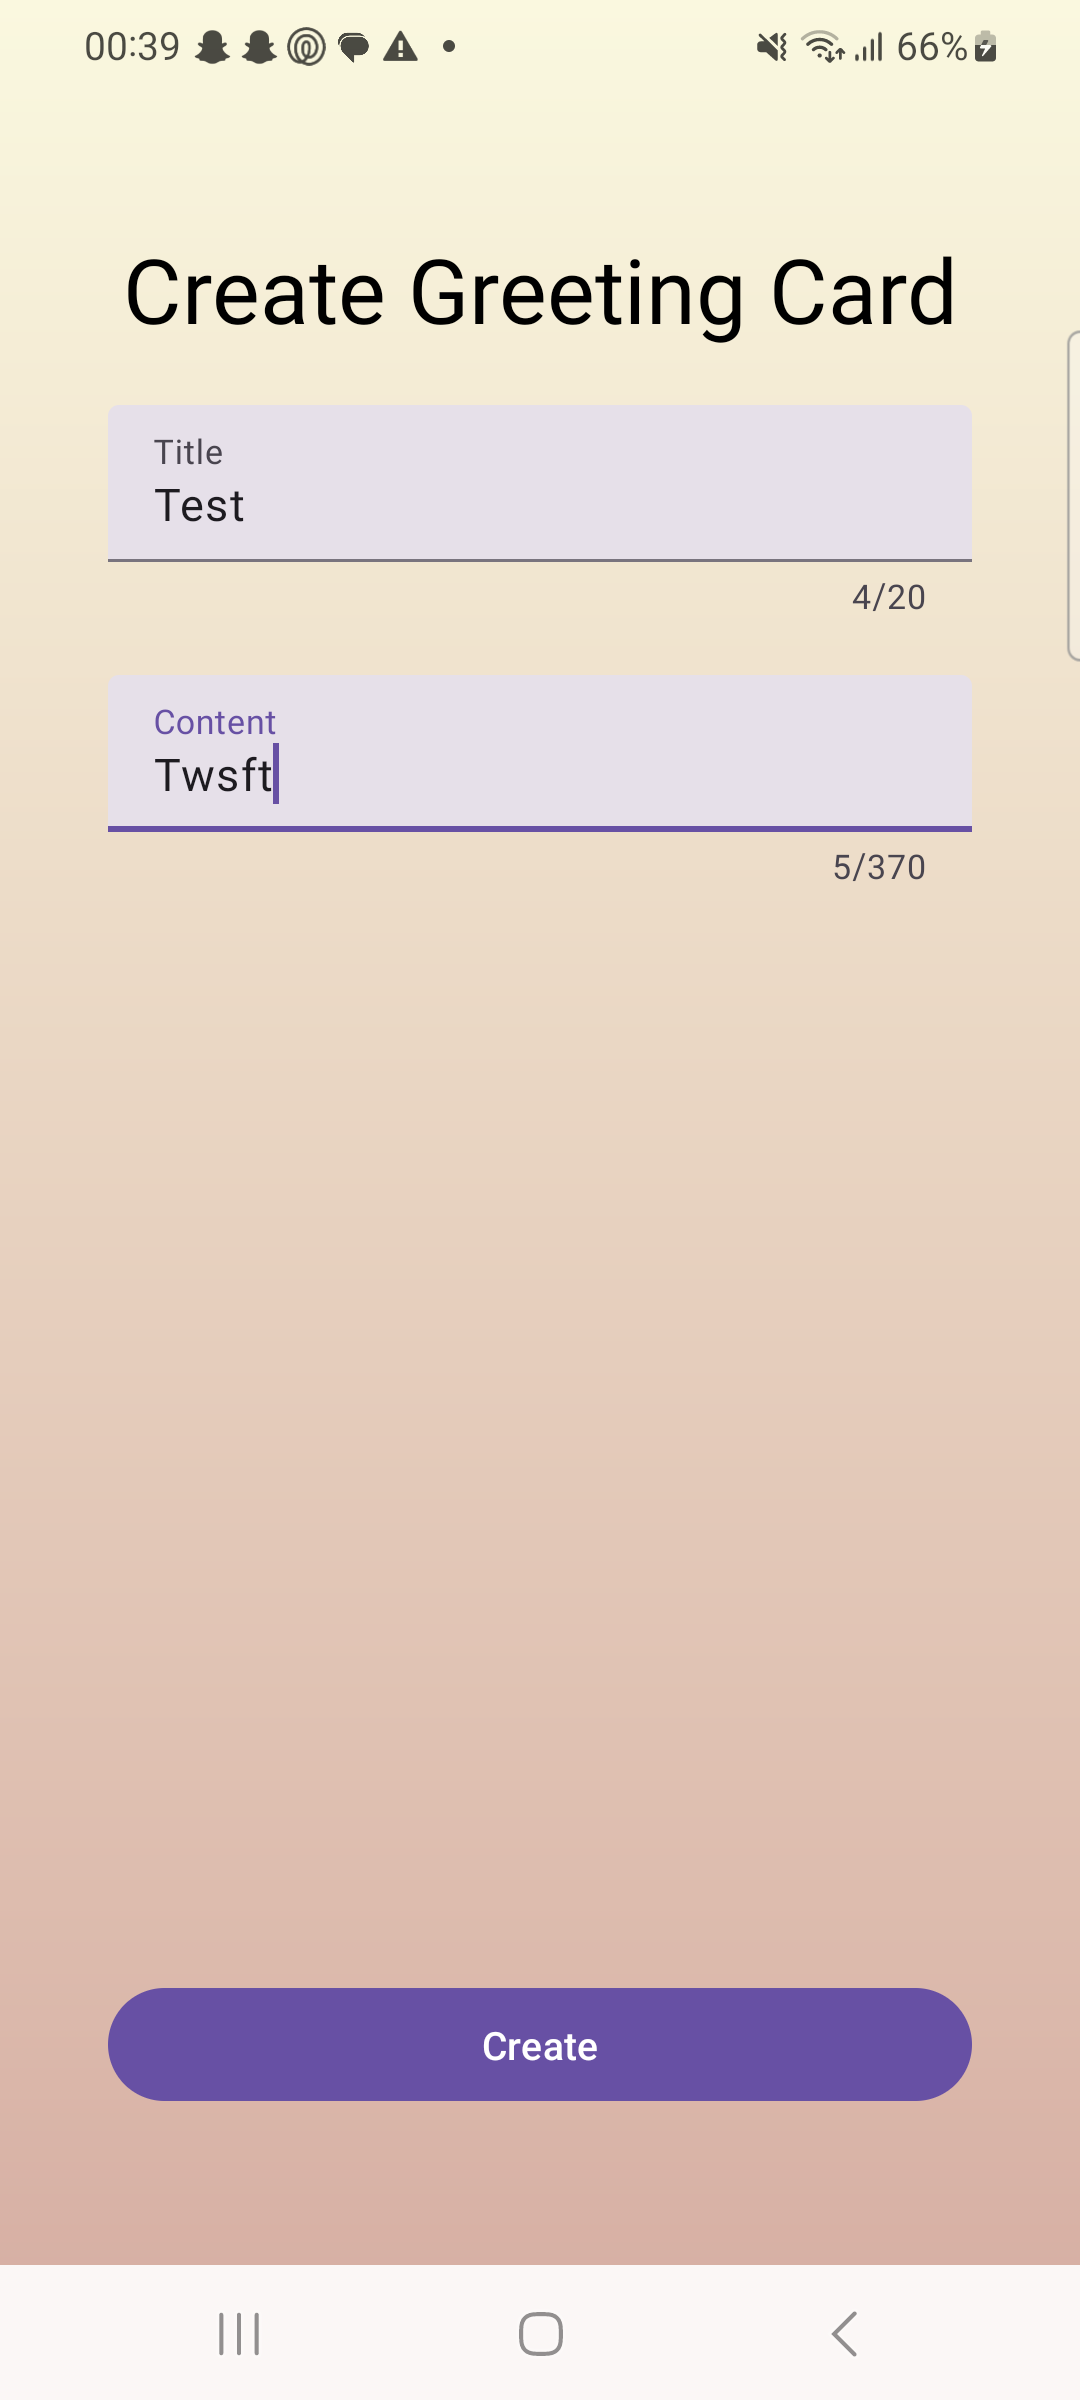
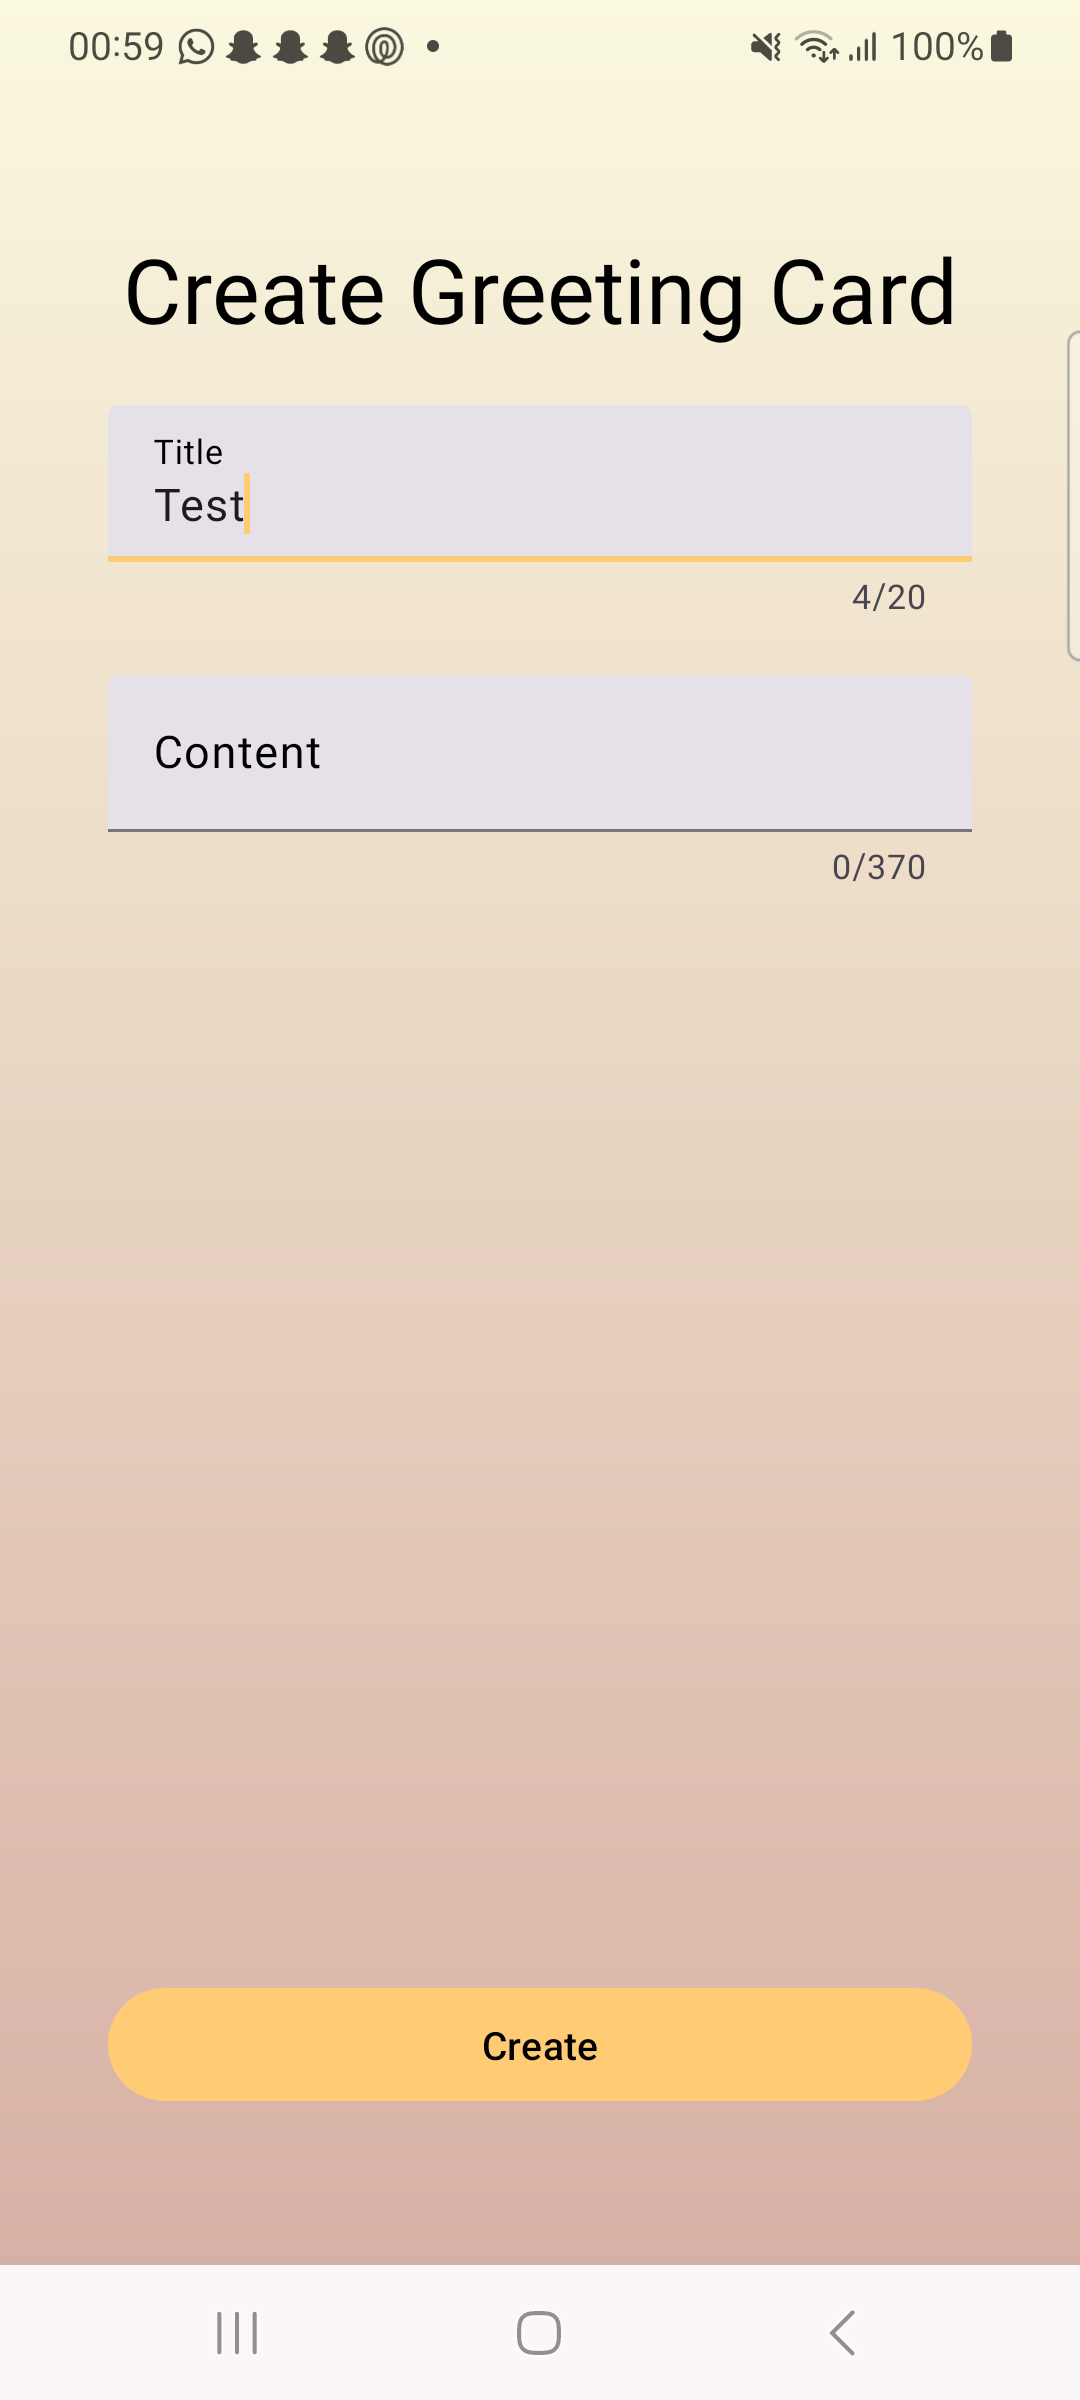
Added screenshot of the application, modified README.md, and modified activity_third_greeting_card.xml.

diff --git a/README.md b/README.md
@@ -6,24 +6,37 @@ Lab : 6
 # GreetCreate
 This application is create so that people can try to create a greeting card for himself. This app is created with simplicity in mind.
 
-Link Figma:
+Mockup:
 [Figma](https://www.figma.com/design/vLoUD88j09EHsI7MgLB9zD/UTS_PM6?node-id=0-1&t=zDyDJ7uYhBoiap9a-1)
-
-For the greeting card background I take from the below link:
-1. [First Greeting Card Background](https://id.pinterest.com/pin/791789178260084495/)
-2. [Second Greeting Card Background](https://id.pinterest.com/pin/773352567263582849/)
-3. [Third Greeting Card Background](https://id.pinterest.com/pin/603975000022904635/)
 
 Screen Screenshot:
 1. Loading Screen
 ![Alt Text](image/Loading_Screen.png)
 2. Home Screen
 ![Alt Text](image/Home_Screen.png)
+![Alt Text](image/Dark_Mode_Home_Screen.png)
 3. Create Greeting Card Screen
 ![Alt Text](image/Create_Greeting_Card_Screen.png)
+![Alt Text](image/Dark_Mode_Create_Greeting_Card_Screen.png)
+![Alt Text](image/Landscape_Create_Greeting_Card_Screen.png)
+![Alt Text](image/Not_Filled_Create_Greeting_Card_Screen.png)
+![Alt Text](image/Too_Filled_Create_Greeting_Card_Screen.png)
 4. First Greeting Card Screen
 ![Alt Text](image/First_Greeting_Card_Screen.png)
+![Alt Text](image/Dark_Mode_First_Greeting_Card_Screen.png)
+![Alt Text](image/Screenshot_First_Greeting_Card_Screen.png)
 5. Second Greeting Card Screen
 ![Alt Text](image/Second_Greeting_Card_Screen.png)
+![Alt Text](image/Dark_Mode_Second_Greeting_Card_Screen.png)
+![Alt Text](image/Screenshot_Second_Greeting_Card_Screen.png)
 6. Third Greeting Card Screen
 ![Alt Text](image/Third_Greeting_Card_Screen.png)
+![Alt Text](image/Dark_Mode_Third_Greeting_Card_Screen.png)
+![Alt Text](image/Screenshot_Third_Greeting_Card_Screen.png)
+
+Credits:
+1. [First Greeting Card Background](https://id.pinterest.com/pin/791789178260084495/)
+2. [Second Greeting Card Background](https://id.pinterest.com/pin/773352567263582849/)
+3. [Third Greeting Card Background](https://id.pinterest.com/pin/603975000022904635/)
+4. [Pembuat Icon Android](https://icon.kitchen/)
+5. [Logo Generator](https://chatgpt.com/)
